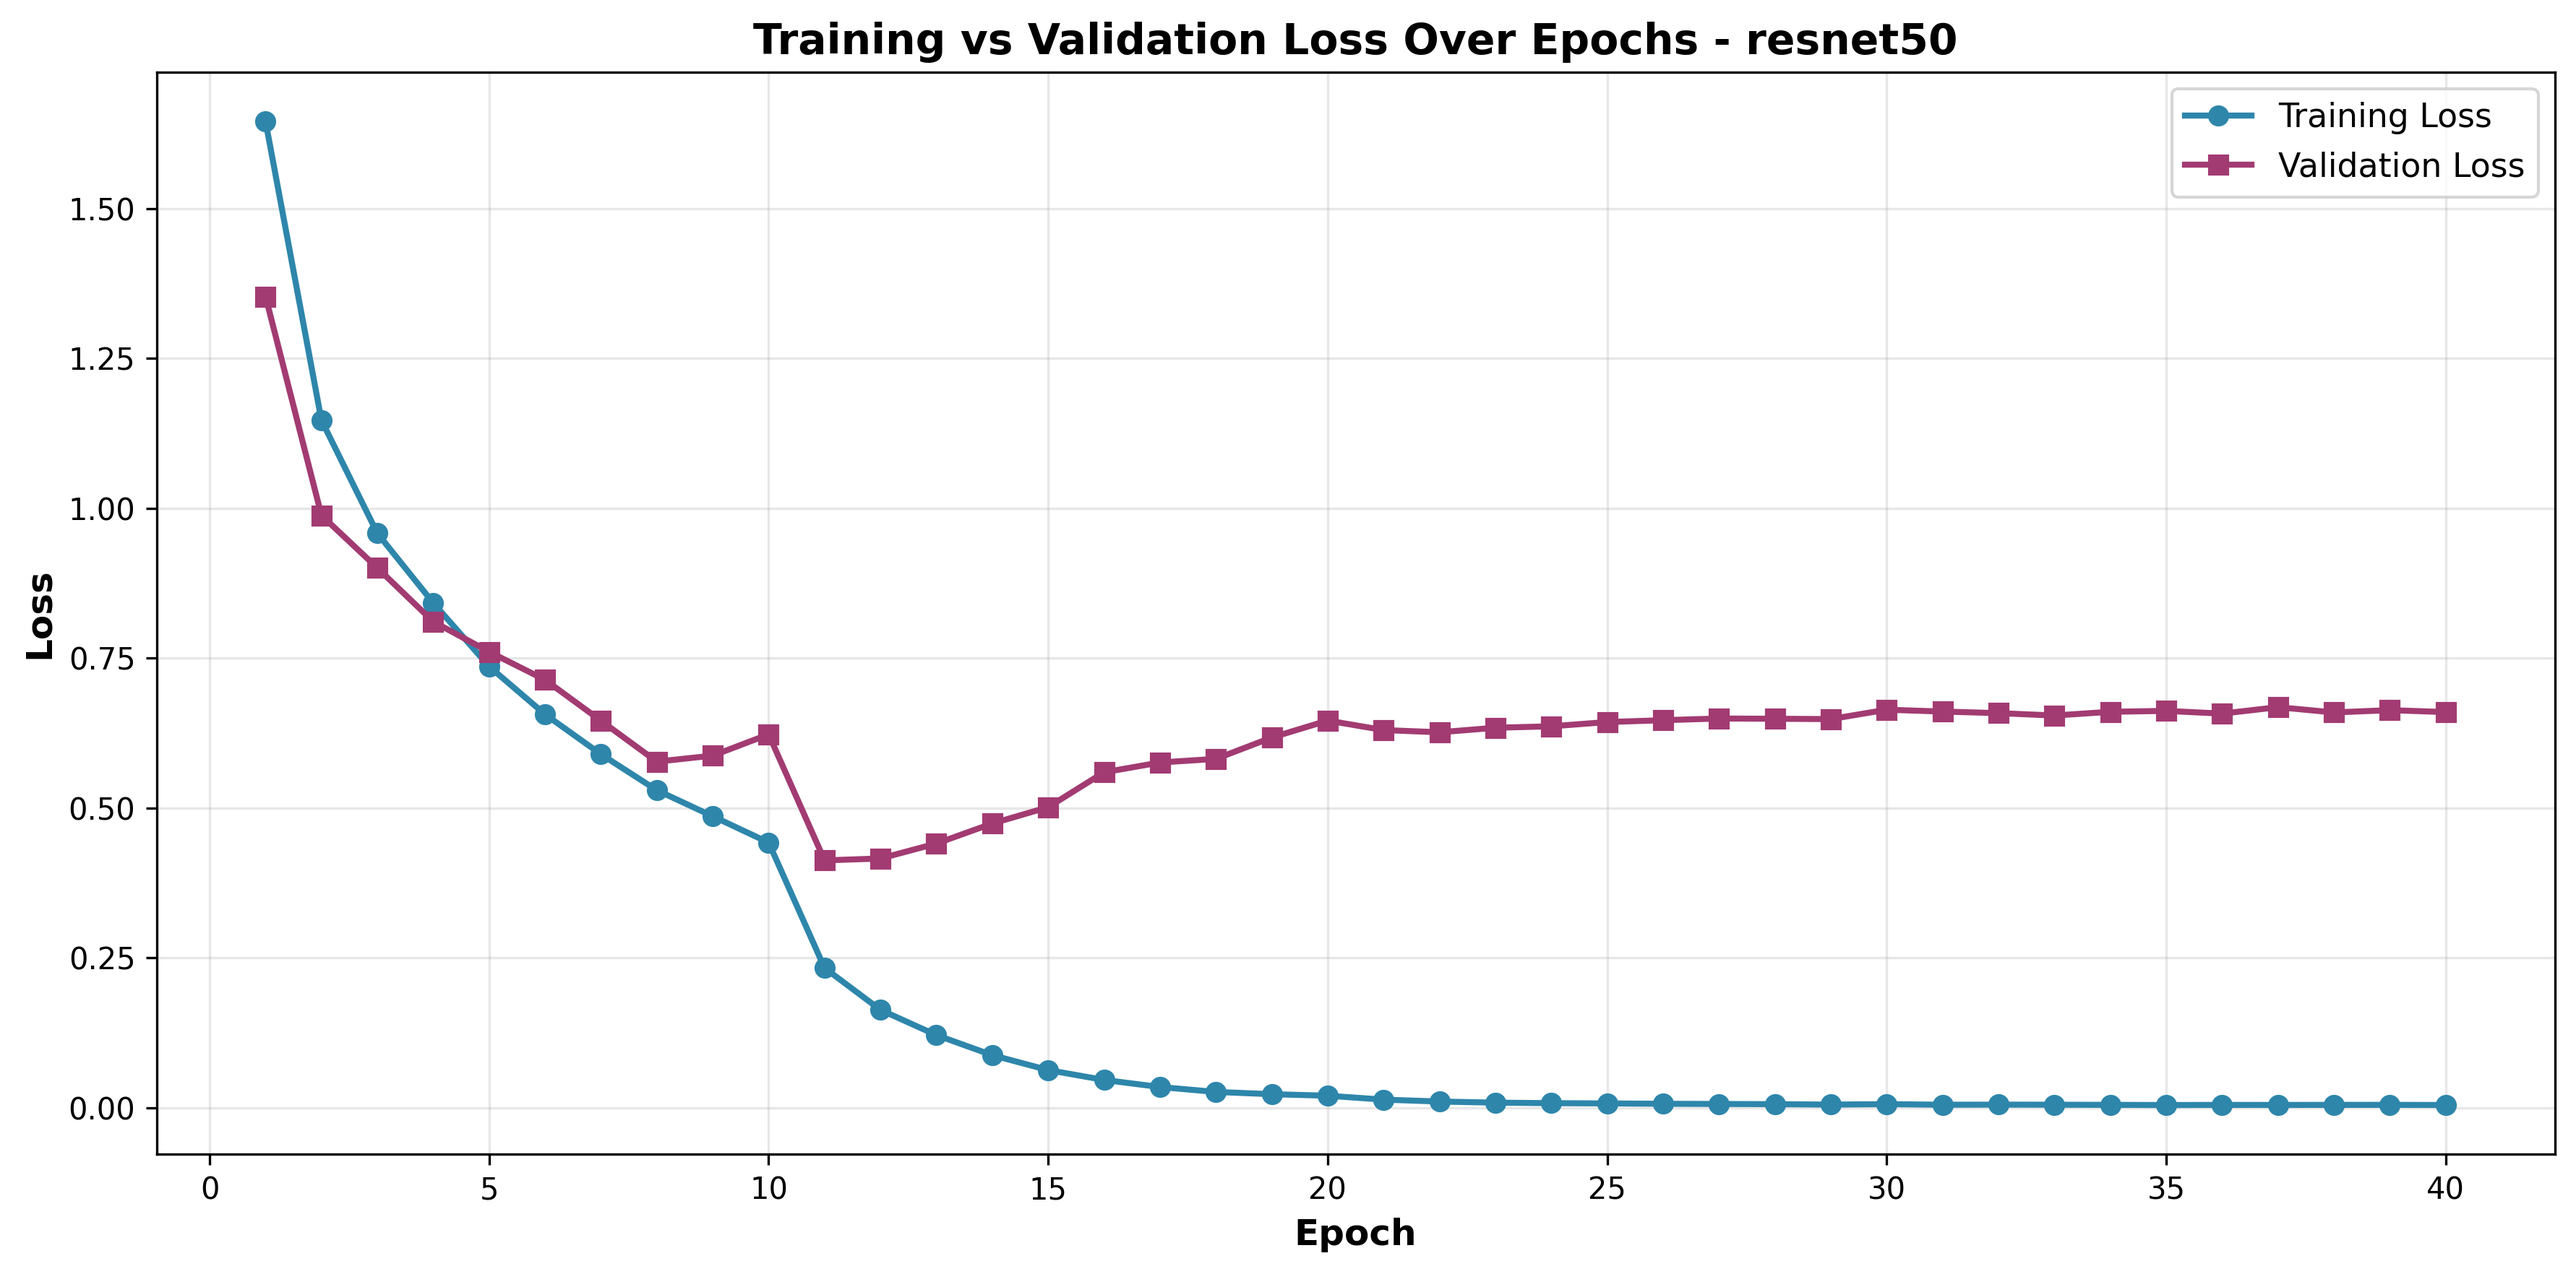
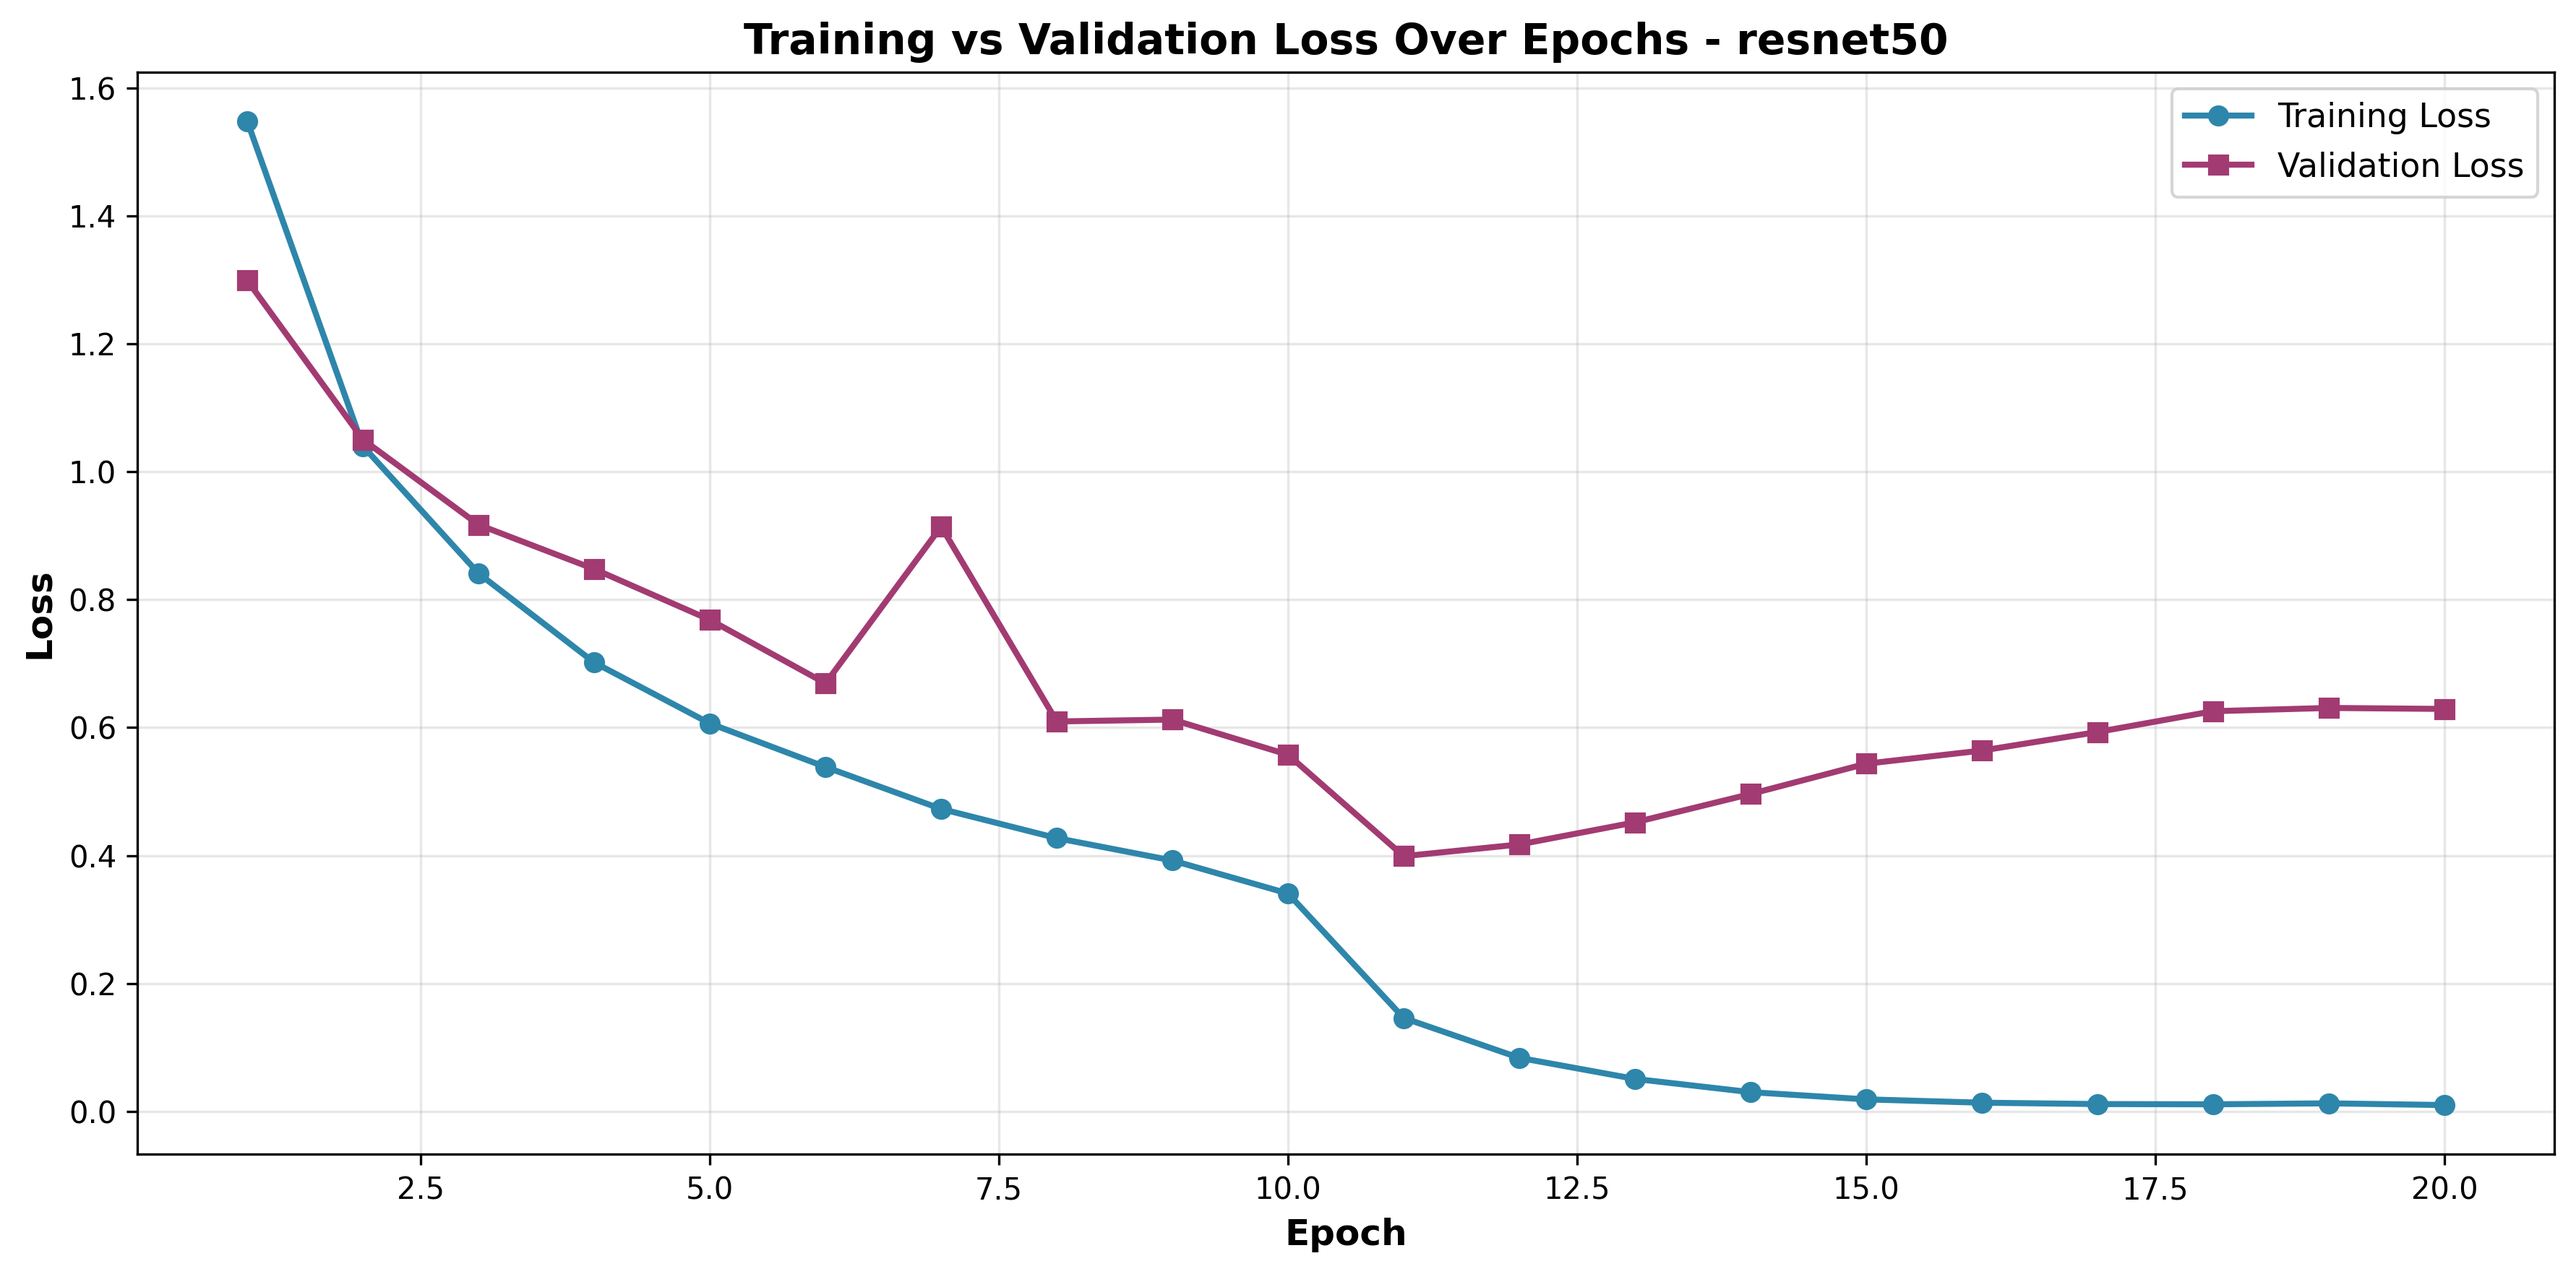
final resnet50 results

diff --git a/config/config.py b/config/config.py
@@ -2,9 +2,9 @@ import os
 
 class Config:
 
-    batch_size = 32
+    batch_size = 64
     learning_rate = 8e-4
-    epochs = 40
+    epochs = 20
 
     device = "cuda"
 
